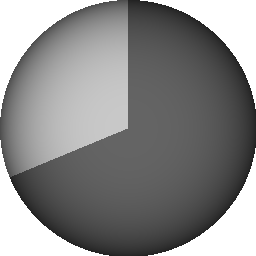
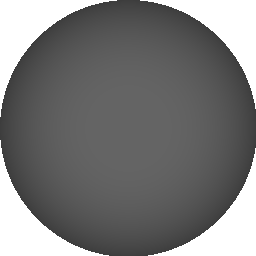
Changed reward

diff --git a/src/backend/ant_kind.py b/src/backend/ant_kind.py
@@ -45,9 +45,12 @@ def get_score(kind):
     elif kind == AntKind.SHARED_15:
         return _high_coop - 1, _low_coop + 1
     elif kind == AntKind.COMPETITIVE_4:
-        return conf.comp_reward - 1
+        #return conf.comp_reward - 1
+        return 16
     elif kind == AntKind.COMPETITIVE_5:
-        return conf.comp_reward
+        #return conf.comp_reward
+        return 16
     elif kind == AntKind.COMPETITIVE_6:
-        return conf.comp_reward + 1
+        #return conf.comp_reward + 1
+        return 16
 

diff --git a/src/configuration/create_img.py b/src/configuration/create_img.py
@@ -57,7 +57,8 @@ for i in range(_low_coop - 1, _low_coop + 2):
 for i in range(_high_coop - 1, _high_coop + 2):
     draw_shared_circ(i/16.)
 for i in range(conf.comp_reward - 1, conf.comp_reward + 2):
-    draw_shared_circ(i/16., col_0=conf.competitive_reward_color, col_1=conf.ant_base_color)
+    #draw_shared_circ(i/16., col_0=conf.competitive_reward_color, col_1=conf.ant_base_color)
+    draw_shared_circ(1., col_0=conf.competitive_reward_color, col_1=conf.ant_base_color)
 
 name_index = 0
 

diff --git a/src/configuration/conf.py b/src/configuration/conf.py
@@ -34,7 +34,7 @@ ant_lifetime = 5
 time_before_round = 5
 
 pos_updates_ps = 60
-lap_time = 5 * 60
+lap_time = 2 * 60
 simultaneous_games = 2
 laps_to_play = 3
 
